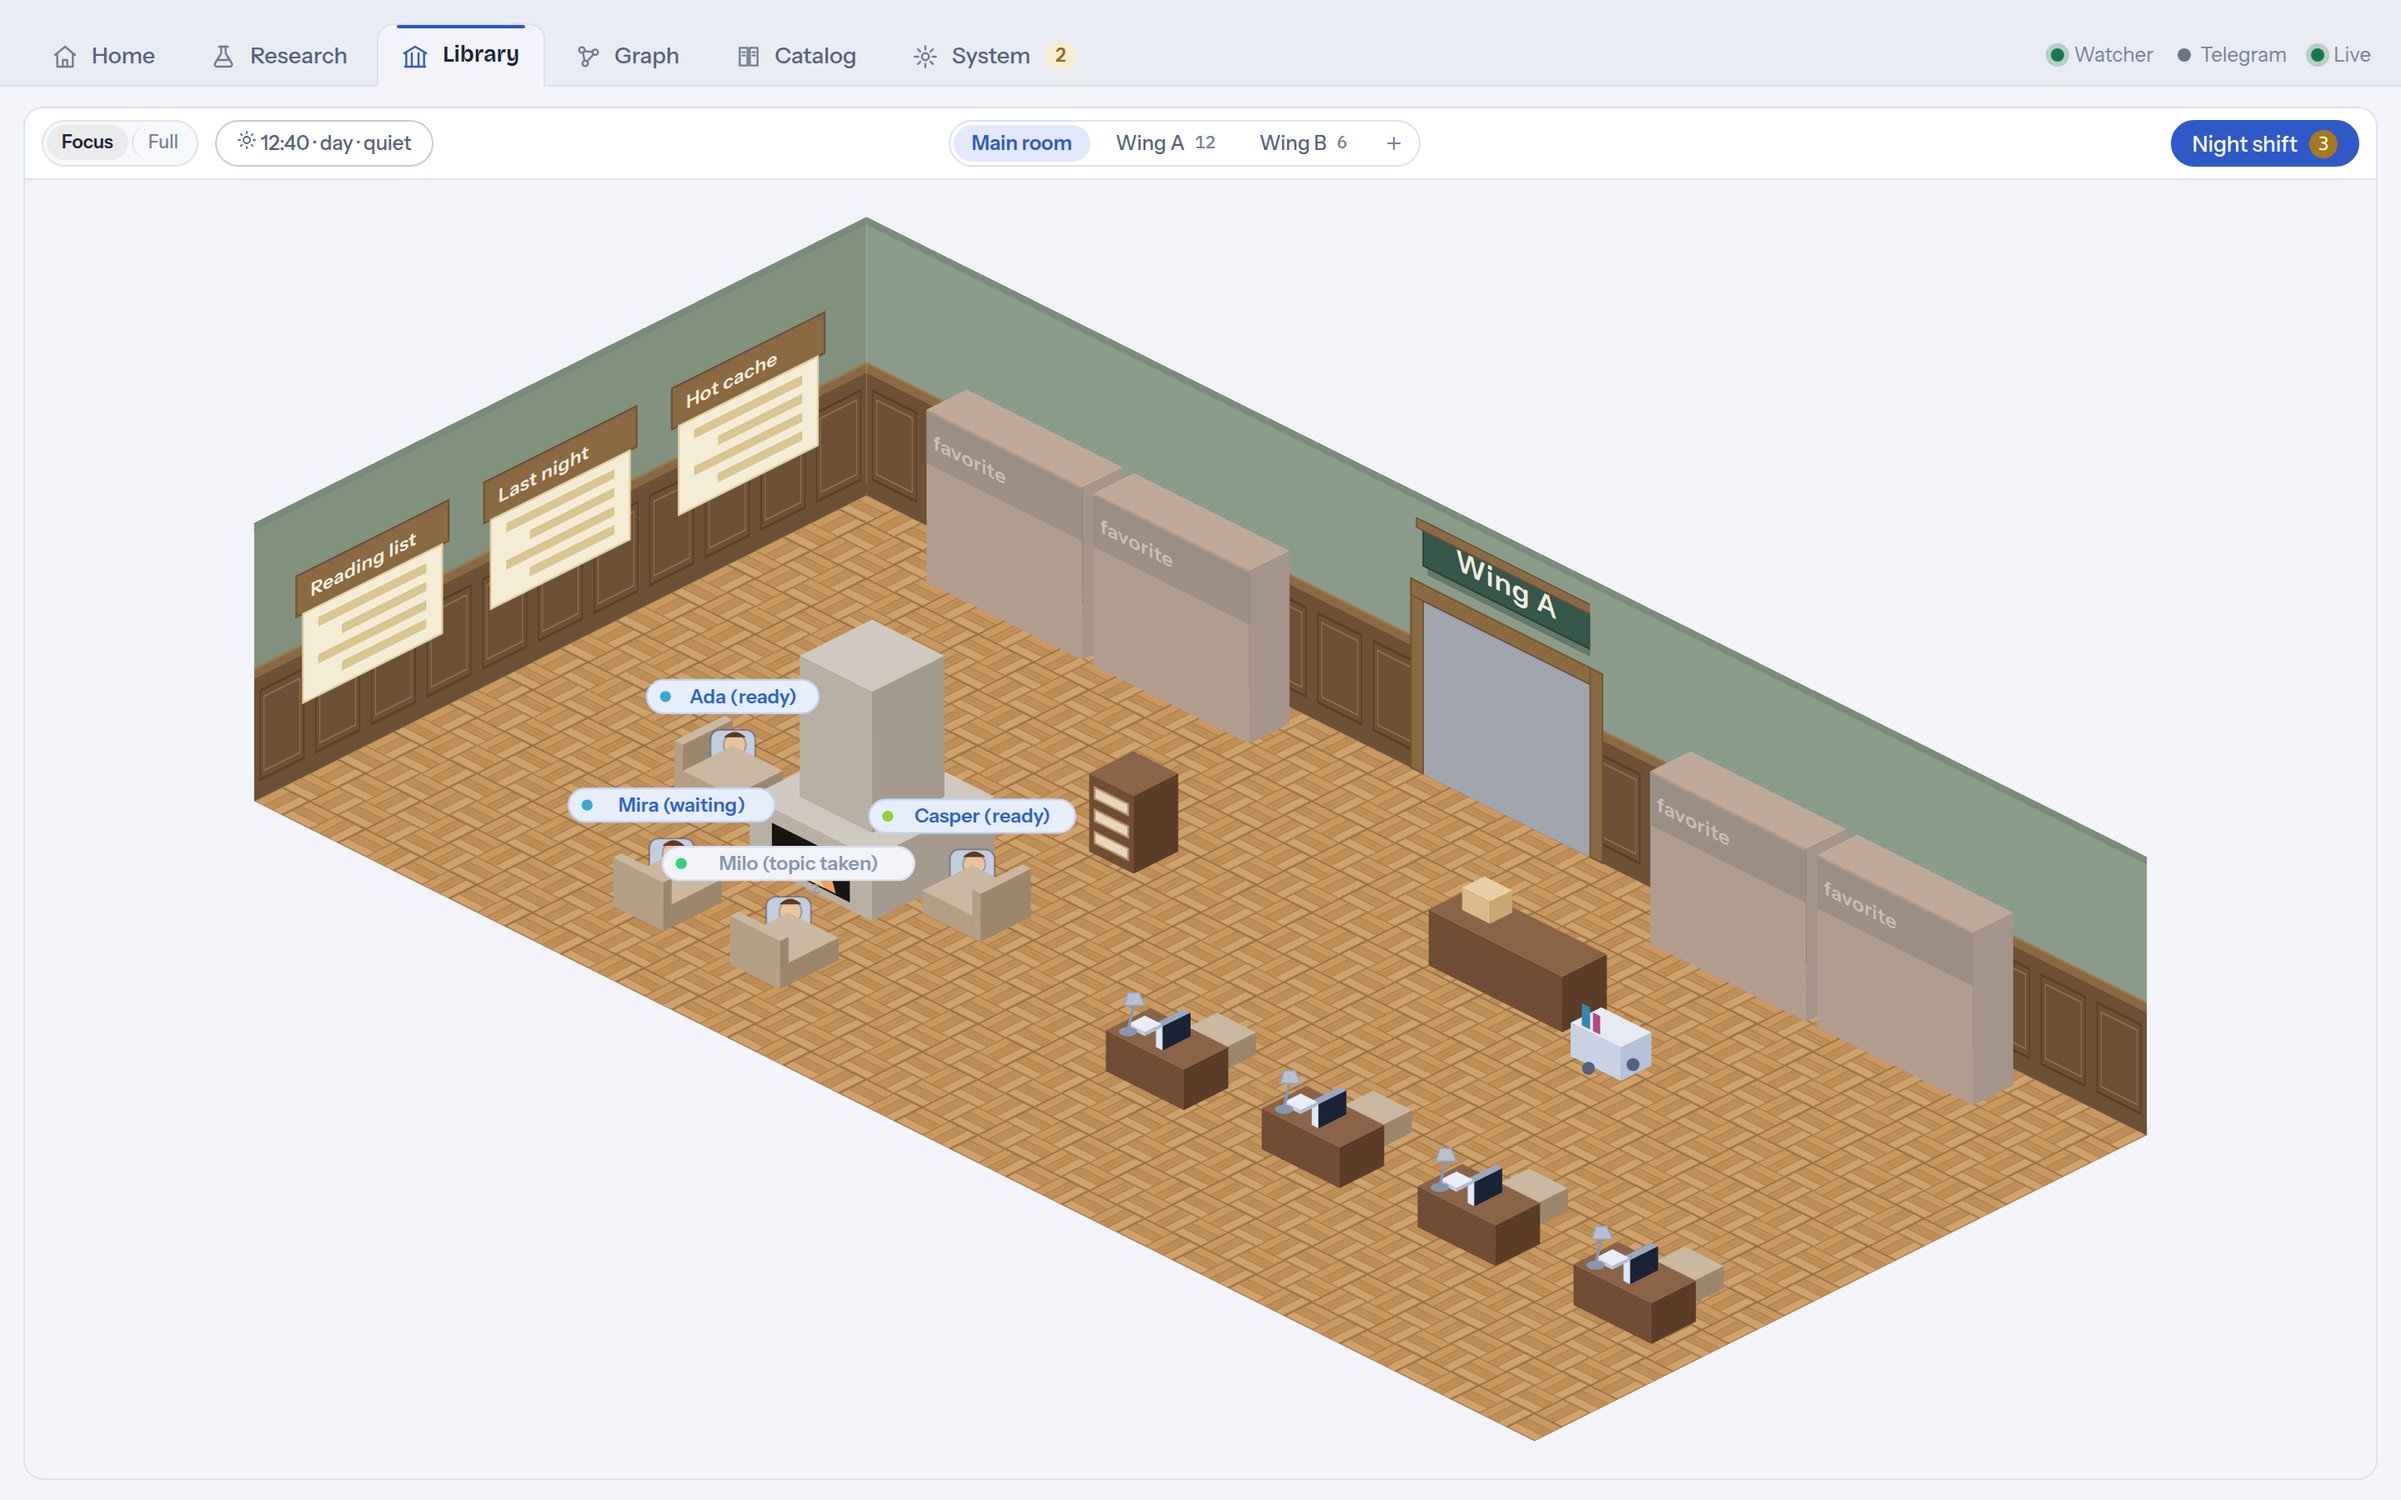
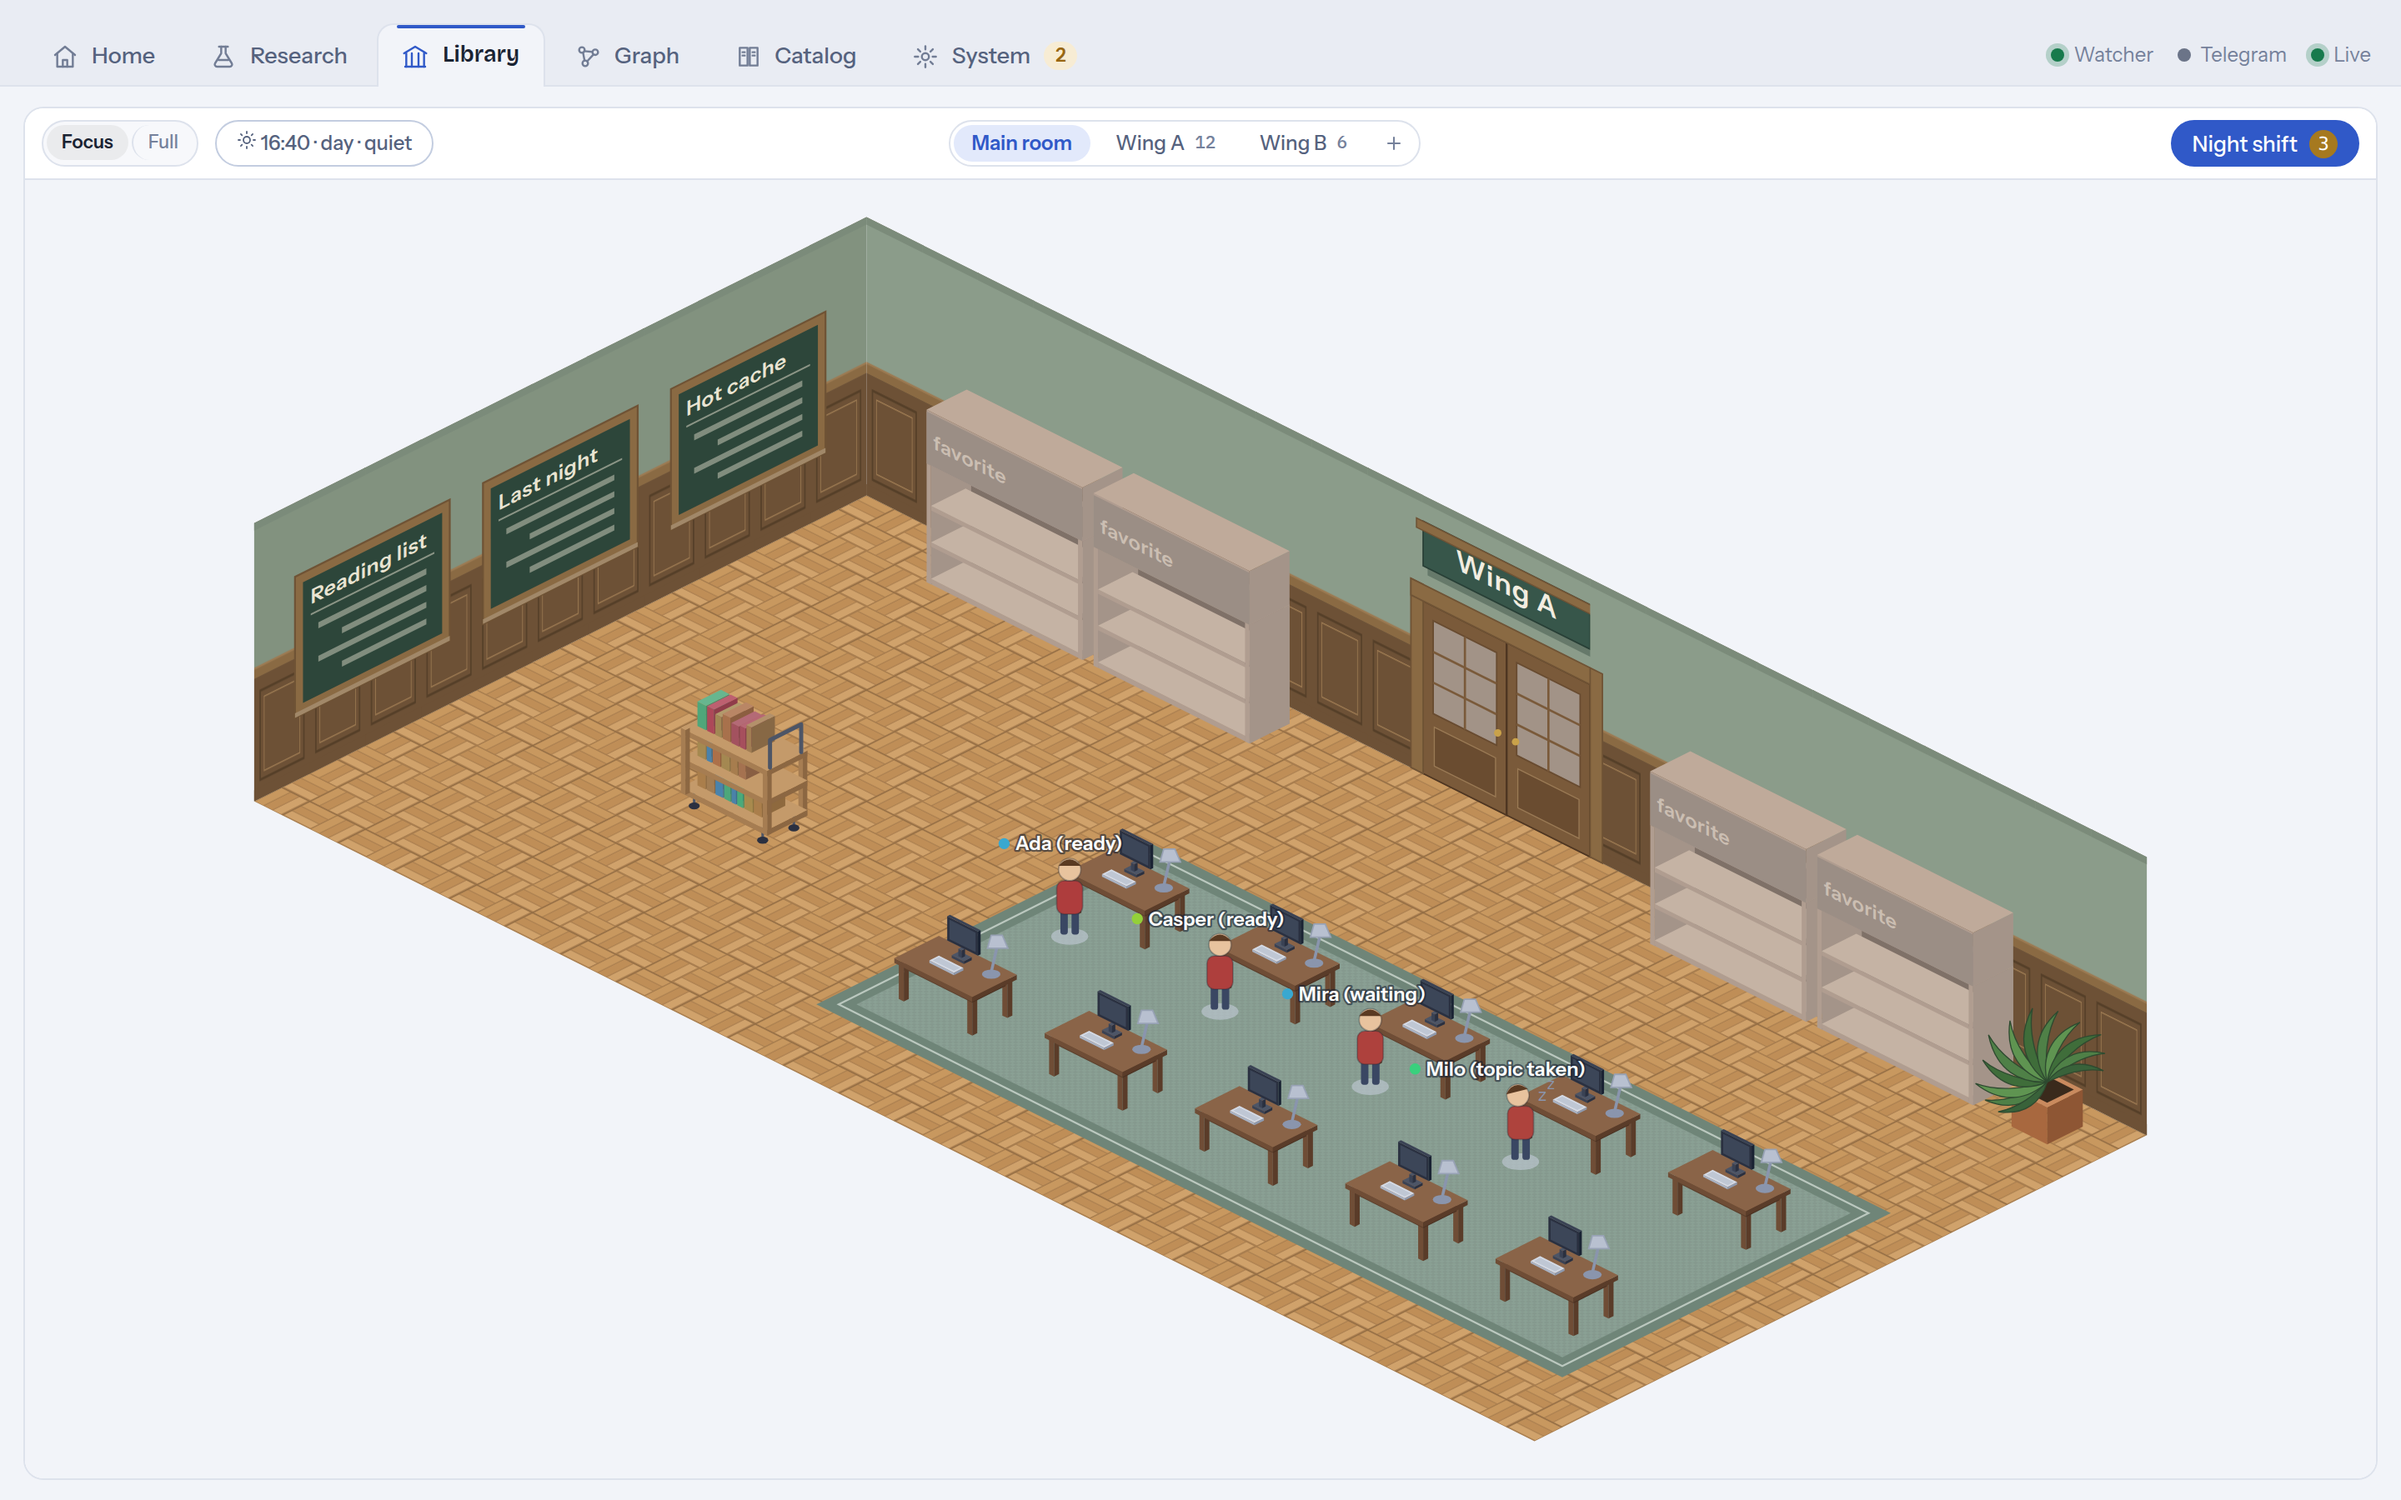
docs: the main room as built, and the README's room re-shot
SPEC 10.13 records the refurnished main room and what of 10.2 to 10.4 it
replaces; TASKS-A6 section 11 lists what the merge carries because of it. The
two README screenshots that show the room are re-shot from the synthetic vault;
the command centre and the dossier cover the room and came out unchanged.

diff --git a/docs/agents/SPEC.md b/docs/agents/SPEC.md
@@ -1864,6 +1864,56 @@ the second copy of five screens this window already had.
 
 ---
 
+### 10.13 The main room refurnished (as built, 2026-09-17)
+
+The main room of 10.4 was built as designed and then lived with for eleven days, and three
+things in it did not earn their place: the fireplace with its four armchairs, where a
+resting Fellow sat with nothing to do; the front desk, the intake cart and the card catalog,
+which stood in the middle of the floor for events that happen a few times a day; and the
+desks, four of them for a room meant to hold more Fellows than that. This section replaces
+the furniture paragraph of 10.4 and the places named in 10.2 and 10.3 (the front desk, the
+reading room, the intake cart, the catalog); everything else in those sections stands.
+
+**Ten desks, one per Fellow.** Two rows of five parallel to the long wall, on a sage wool
+rug that marks them as a section. Each desk is a top on four legs with a monitor on the back
+edge, its screen to the front, a keyboard before it and a lamp on the back corner. A Fellow
+STANDS in front of its own desk whatever its state - working, thinking, waiting, paused or
+asleep (head tipped, z's) - and only reading takes it away, to its department's shelf. The
+desk is a column of the record (`agents.desk`, v31): the lowest free number at spawn, freed
+at retirement, so a retirement moves nobody and the room fills from the first desk. The room
+seats ten; the eleventh spawn is refused (`409`, code `full`) until a Fellow retires. Visitors
+who write - the manual researcher, the clerk filing pages - take guest desks from the far end
+of the rows, so they meet a Fellow's desk only when the room is full.
+
+**The screen and the lamp say who is busy.** A monitor is lit only at a desk whose figure is
+in a run, between two steps of one, or a guest writing; at night the same rule lights the
+lamp. An empty desk and a sleeping Fellow's desk stay dark, so the room says at a glance who
+is at work.
+
+**The book cart** stands in the open floor left of the desks, centred between the short wall
+and the first desk and in line with the middle of the two rows: three tiers of books on
+casters with a push rail. It is the one station for everything that is not a Fellow's own
+work. The inspector and the caretakers stand at it, the reader filing a chat too; the ingest
+queue's parcels lie beside it and the clerk unpacks and reads there. Only the hot-cache
+caretaker keeps its place at the board it renews. The cart lights its top edge under the
+pointer like a shelf, and clicking it opens System, where the maintenance runs are started.
+
+**The rest.** A fern in a pot stands where the cart used to, right of the last favorite shelf
+and centred in that gap. The three boards on the short wall are chalkboards in the banner's
+green, framed all round with a chalk tray. The passage to the wings holds a glazed double
+door: a wooden panel below, six panes above, brass knobs; the corridor shows through the
+glass, and the frame, its lit edge and the click are unchanged. Every bookcase, here and in
+the wings, is an open case with depth - back panel, sides, a plank per row - and its books
+stand in it as boxes, set a little back from the front edge.
+
+Decided in three rounds of renders on 2026-09-17, each look chosen from a contact sheet of
+alternatives: the rug over carpet tiles, a striped weave and an oriental pattern; the
+chalkboards over a cork board with pinned notes and a brass plaque; the boxes over flat
+spines and spines with tops; the fern over a small tree, a rubber tree, a monstera and a
+palm; the glazed door over a panelled one, an open one and one under a fanlight. The design
+artboards under `docs/agents/design/library-screen/` show the room as first designed and are
+kept as that record.
+
 ## 15. Milestones
 
 | # | Milestone | Content | Acceptance |

diff --git a/docs/tasks/TASKS-A6.md b/docs/tasks/TASKS-A6.md
@@ -1167,3 +1167,28 @@ Status as measured 2026-09-15, on the working tree:
   `social-preview.png` is `b52c19e` (2026-07-19).
 - **F-A6-12 (2026-09-15) - no CI in either repo, and the LibrisVault clone holds an
   un-ignored private task file** at `docs/tasks/TASKS-BIOAGENTKG.md`. See sections 8 and 7.
+
+## 11. The Library's main room, refurnished (2026-09-17)
+
+Done during the merge preparation, because the room as first built was going public with
+furniture that had no function: the fireplace and armchairs, the front desk, the intake cart
+and the card catalog. What replaced them is recorded as built in `docs/agents/SPEC.md` 10.13;
+this section lists what the merge carries because of it.
+
+- [x] Ten desks in two rows on a rug, one per Fellow, the Fellow standing in front of its own
+      desk in every state; screen and lamp lit only at a busy desk. The desk is a column
+      (`agents.desk`, migration v31, backfilled in spawn order for the Fellows already there),
+      given at spawn and freed at retirement; the eleventh spawn is refused (`409`, `full`).
+      The migration runs like every other one; the column is read only by the Fellow service
+      and the scene, which exist only behind the flag.
+- [x] The book cart as the one station for maintenance runs and ingests, a click into System;
+      a fern where the cart stood; chalkboards on the short wall; a glazed double door in every
+      passage; open cases with the books as boxes, in the main room and the wings.
+- [x] Tests: `web/test/library.test.ts` (the desk from the record, guest desks, busy desks),
+      `web/test/roomLayout.test.ts` (the rows, the cart's place), `server/test/fellows.test.ts`
+      (seating, the cap). All three gates green and exit 0 on 2026-09-17.
+- [x] Screenshots of the room re-shot from the synthetic vault (section 5's rule): `library-room`
+      and `library-wing`. The command centre and the dossier were shot too and came out byte for
+      byte the same: their windows cover the room.
+- [ ] Not done, said so in 10.13: the design artboards under `docs/agents/design/library-screen/`
+      still show the first room and are kept as the design record.
